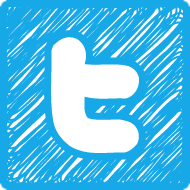
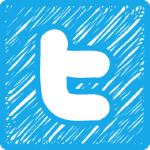
update login social buttons size

diff --git a/login.qml b/login.qml
@@ -75,7 +75,7 @@ Item {
                 height: pageWidth
                 width: model.count * (pageWidth + spacing)-spacing;
                 orientation:Qt.Horizontal
-                spacing: facade.toPx(20);
+                spacing: facade.toPx(25);
                 anchors.horizontalCenter: {parent.horizontalCenter}
 
                 model:ListModel {
@@ -87,7 +87,7 @@ Item {
                     height: width
                     width: {
                         var limitWidth = facade.toPx(940);
-                        pageWidth = facade.toPx(social.sourceSize.width * 1.1 * (listView.width>limitWidth? 1: listView.width/limitWidth))
+                        pageWidth = facade.toPx(social.sourceSize.width * 1.4 * (listView.width>limitWidth? 1: listView.width/limitWidth))
                     }
 
                     DropShadow {
